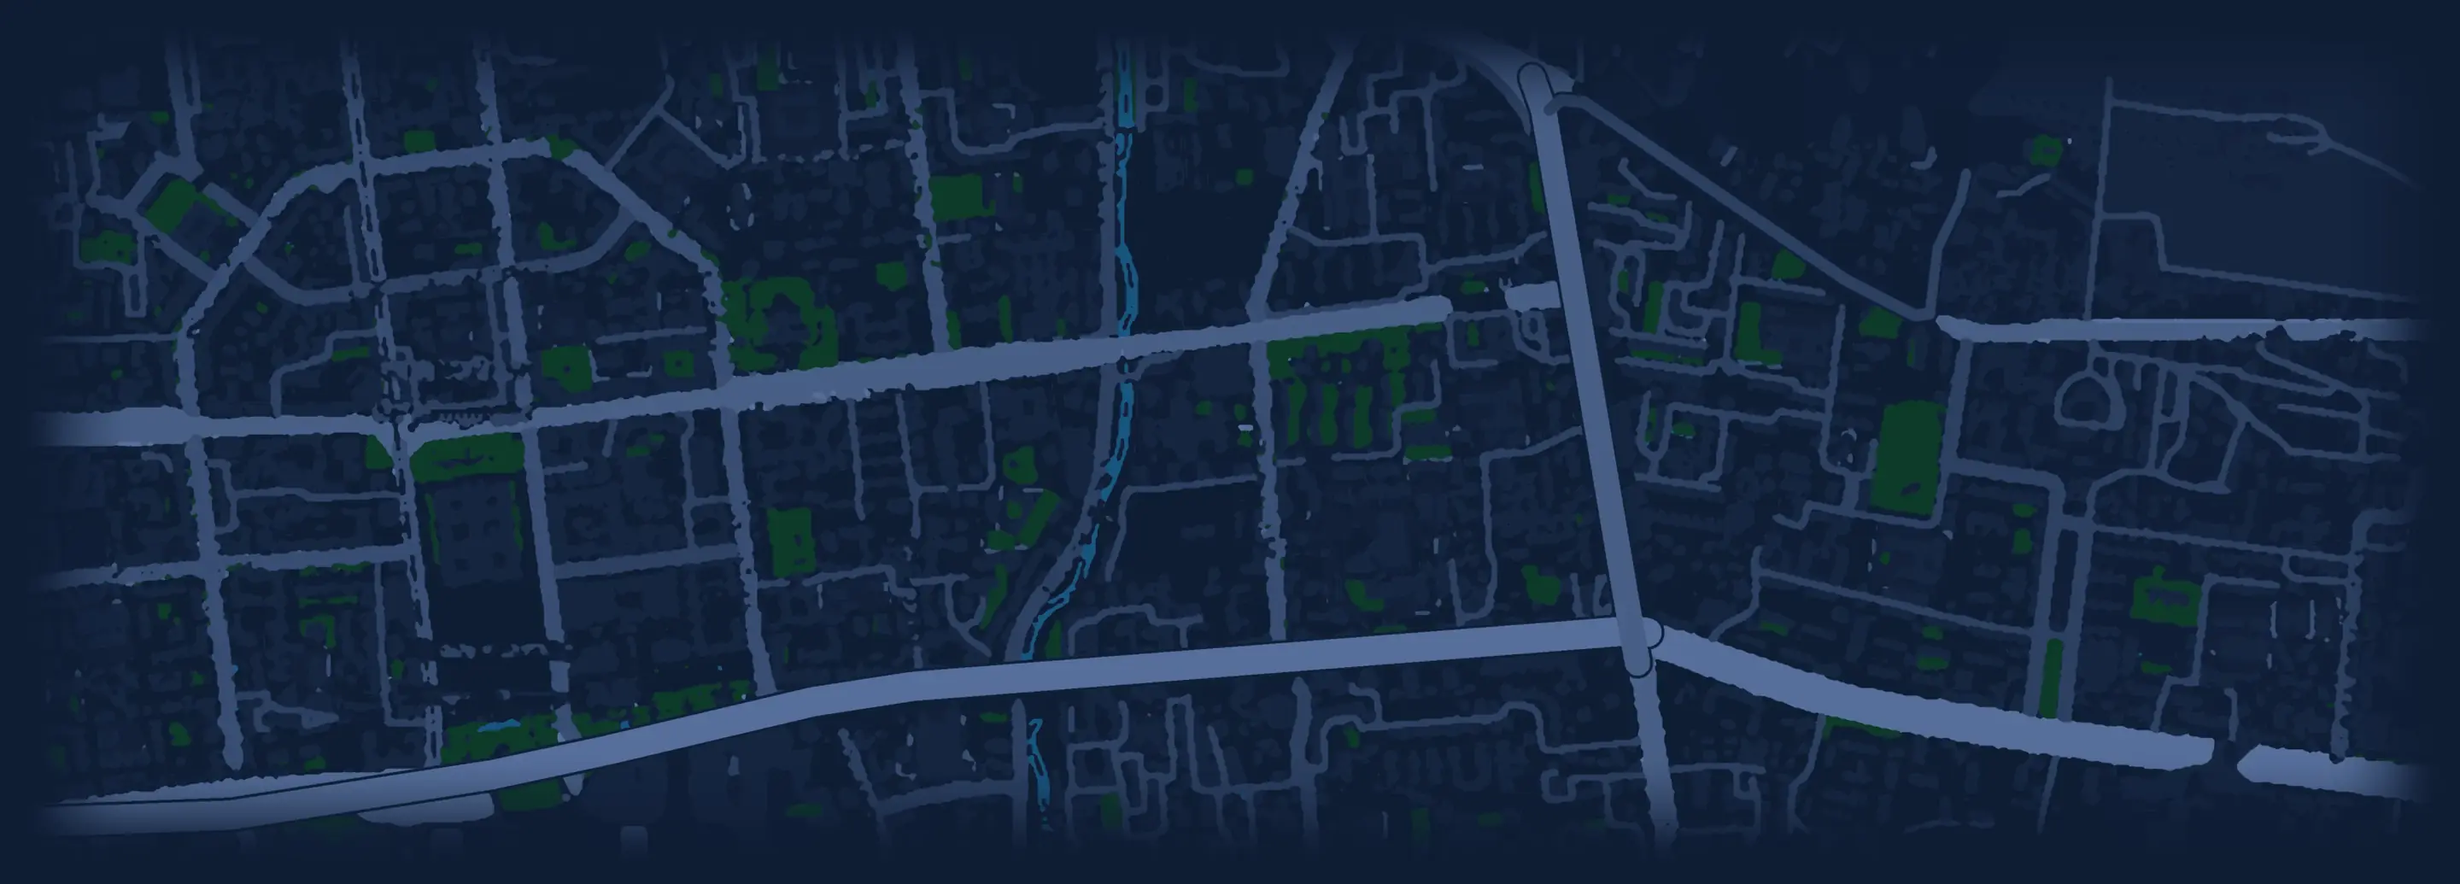
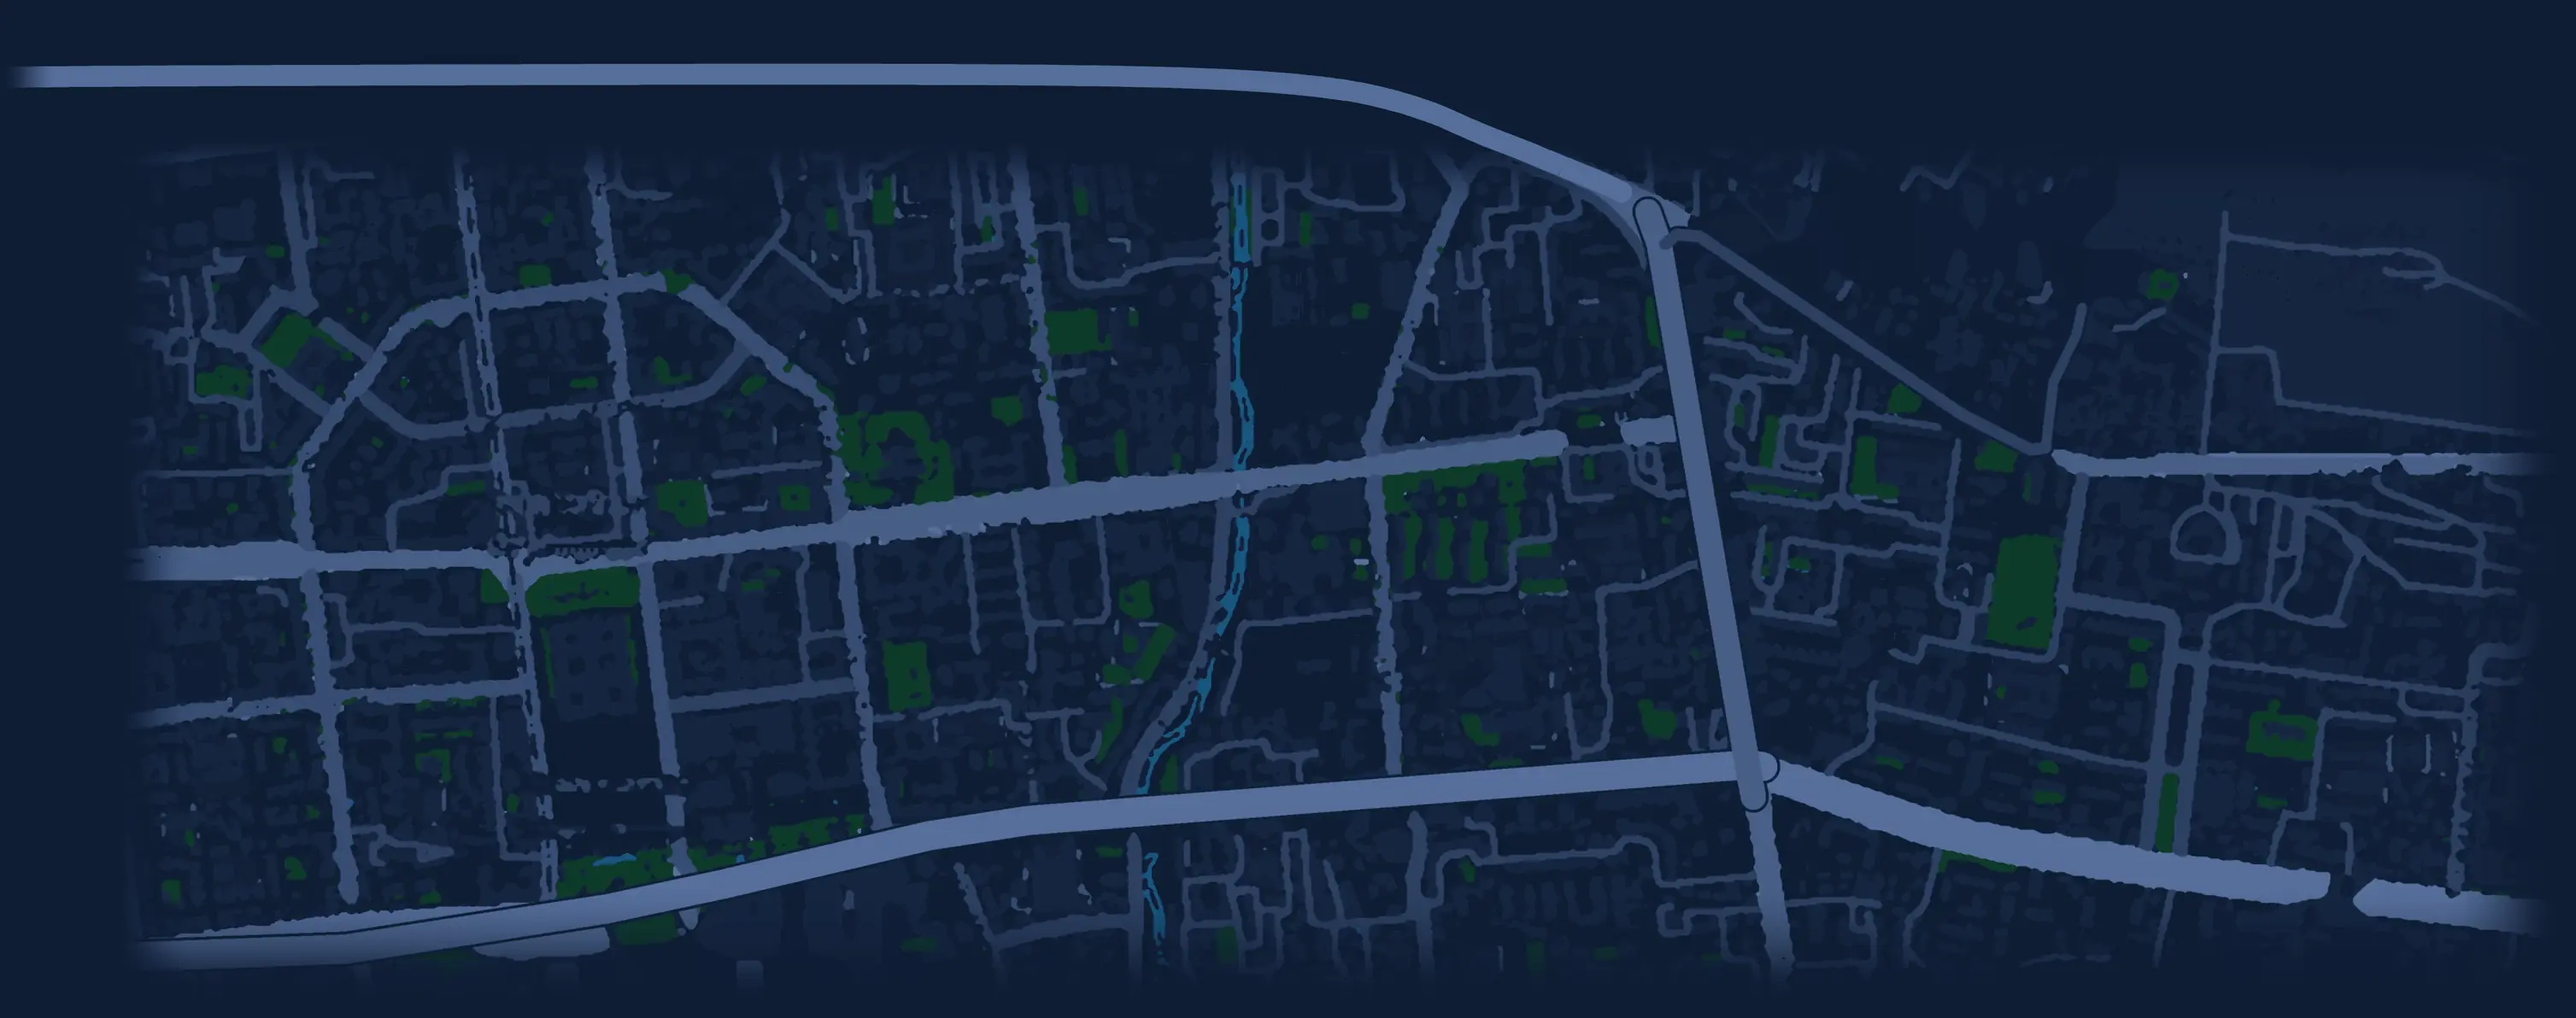
Ногоон зам (ЧД 9-р хороо) Их тойруугаар дайрч ирдэг болов
- Green route now goes north to Ikh Toiruu, east along it past
  47.929416, 106.921950 (SBD 10th khoroo), round the ring and south on
  Ikh Toiruu to the club (3.3 km)
- The northern Ikh Toiruu lies just outside the original map, so the map
  image is extended 70 units north and 60 units west and that section of
  the ring road is drawn in the map's main-road style, with its own label

Claude-Session: https://claude.ai/code/session_01MVanDeSpphYyM1dnnNS71X

Changed region(s): [[0.0, 0.0618, 1.0, 0.9585], [0.8438, 0.0928, 0.9688, 0.1855], [0.9062, 0.2473, 0.9688, 0.2783]]

diff --git a/index.html b/index.html
@@ -503,7 +503,8 @@ html:has(dialog[open]){overflow:hidden}
 .rt1{--c:var(--rc1)}.rt2{--c:var(--rc2)}.rt3{--c:var(--rc3)}
 .r3d{position:absolute;inset:0;overflow:hidden}
 #rcam{position:absolute;left:0;top:0;width:5120px;height:1840px;transform-origin:0 0;will-change:transform}
-#rcam img,#rcam svg{position:absolute;left:0;top:0;width:5120px;height:1840px;max-width:none}
+#rcam svg{position:absolute;left:0;top:0;width:5120px;height:1840px;max-width:none;overflow:visible}
+#rcam img{position:absolute;left:-240px;top:-280px;width:5360px;height:2120px;max-width:none}
 #rmap{opacity:0;transition:opacity .6s}
 #rmap.ok{opacity:1}
 #rcam .rgh,#rcam .rcm,#rcam .rgw,#rcam .rcore{stroke:var(--c)}
@@ -940,6 +941,7 @@ html[data-vt="lang"]::view-transition-old(root),html[data-vt="lang"]::view-trans
           <div class="rlabel" id="rlb0">Энх тайвны өргөн чөлөө</div>
           <div class="rlabel" id="rlb1">Их тойруу</div>
           <div class="rlabel" id="rlb3">Самбуугийн гудамж</div>
+          <div class="rlabel" id="rlb4">Их тойруу</div>
           <div class="rlabel area" id="rlb2">САНСАР</div>
           <div class="rpin rstart rt1"><div class="rdot"></div></div><div class="rchip rschip rt1"><span class="bullet"></span><div class="col"><span class="k" data-rkm>0 км</span><span class="v">Сүхбаатарын талбай</span></div></div><div class="rpin rstart rt2"><div class="rdot"></div></div><div class="rchip rschip rt2"><span class="bullet"></span><div class="col"><span class="k" data-rkm>0 км</span><span class="v">Самбуугийн гудамж</span></div></div><div class="rpin rstart rt3"><div class="rdot"></div></div><div class="rchip rschip rt3"><span class="bullet"></span><div class="col"><span class="k" data-rkm>0 км</span><span class="v">ЧД 9-р хороо</span></div></div>
           <div class="rring" id="rring0"></div><div class="rring" id="rring1"></div><div class="rring" id="rring2"></div>
@@ -2453,11 +2455,12 @@ html[data-vt="lang"]::view-transition-old(root),html[data-vt="lang"]::view-trans
   const T_INTRO = 2.2, T_FLY = 3.6, T_TRAVEL = 15.4, T_ARRIVE = 17.6, T_PULL = 19.2, DUR = 21.6;
   // map units = OpenStreetMap zoom-15 pixels (map image 1280×460 units, drawn at 5120×1840); club at 47.923417° N 106.942444° E
   const SC = 4, M_PER_UNIT = 3.2011, DEST = [831.3, 177];
-  // 1 Sükhbaatar Square → Peace Ave → Ikh Toiruu · 2 Sambuu St → Ikh Toiruu · 3 Chingeltei 9th khoroo → Sambuu St → Ikh Toiruu
+  // 1 Sükhbaatar Square → Peace Ave → Ikh Toiruu · 2 Sambuu St → Ikh Toiruu · 3 Chingeltei 9th khoroo → Ikh Toiruu (north, via 47.929416, 106.921950) → Ikh Toiruu (east)
+  // the map image reaches 60 units further west and 70 units further north than the original; the northern Ikh Toiruu is drawn there
   const PTS = [
     [[256,408],[317,394],[423,370],[475,362],[851,332],[824,186],[831.3,177]],
     [[322.3,212.6],[376,207],[422,201],[472,192],[529,186],[584,179],[658,169],[720,162],[771,163],[790,157],[808,156],[818.5,157],[822,172],[831.3,177]],
-    [[-34.4,4.6],[0,8],[86,11],[88,24],[95,57],[96,91],[88,110],[88,124],[106,147],[97,170],[98,216],[103,221],[192,221],[277,220],[280.0,214.5],[375.7,204.4],[421.6,198.4],[471.6,189.4],[528.7,183.4],[583.7,176.4],[657.7,166.4],[719.9,159.4],[770.6,160.4],[789.5,154.4],[808.1,153.4],[820.6,154.6],[824.5,171.4],[831.3,177]]
+    [[-34.4,4.6],[-34.4,-14],[-30,-30.2],[100,-30.9],[353.8,-31.6],[500,-31],[580,-29],[640,-24],[680,-14],[711,0],[727,6],[749,15],[773.5,25],[797,40],[800.5,50],[806,75],[810,100],[813,120],[817,140],[820.5,156],[824.5,171.4],[831.3,177]]
   ];
 
   const clamp = (x,a=0,b=1) => Math.min(b,Math.max(a,x));
@@ -2580,6 +2583,7 @@ html[data-vt="lang"]::view-transition-old(root),html[data-vt="lang"]::view-trans
   const labels = [
     {el:$('rlb0'), a:[585,353], b:[705,343], off:24, win:[[.8, tX(.8)], OVW]},
     {el:$('rlb3'), a:[420,201.2], b:[540,184.8], off:24, win:[[.8, tX(.75)], OVW]},
+    {el:$('rlb4'), a:[200,-31.2], b:[340,-31.6], off:22, win:[[.8, tX(.6)], OVW]},
     {el:$('rlb1'), a:[846,262], b:[837,205], off:34, win:[[tX(.35), T_TRAVEL+.6], OVW]},
     {el:$('rlb2'), a:[875,226], b:[935,226], off:0, win:[[tX(.8), T_PULL+.2]]},
   ];
